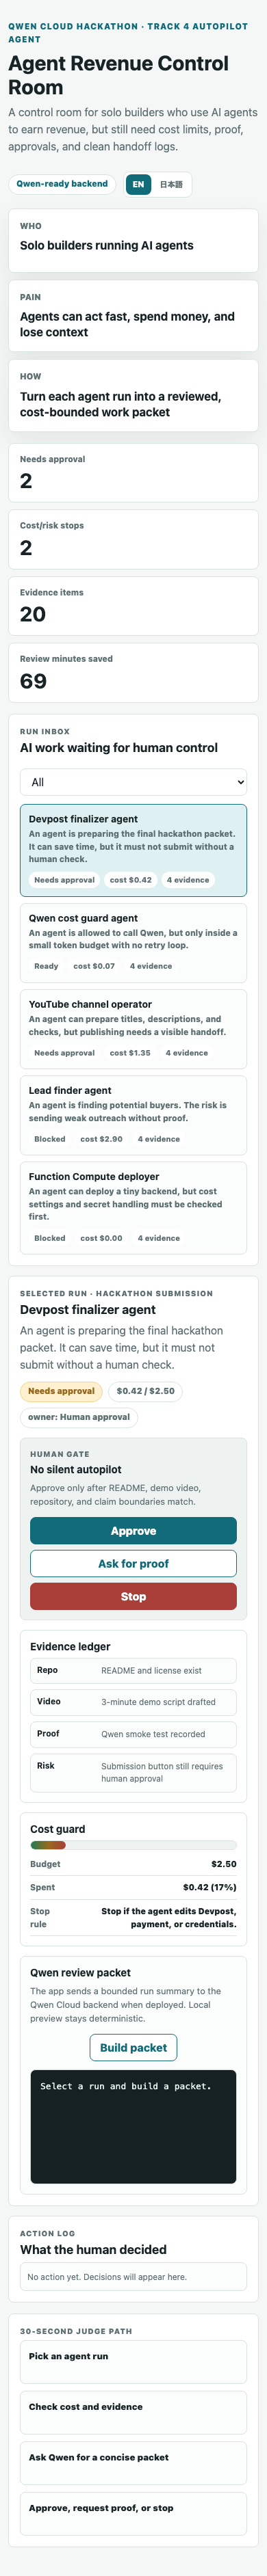
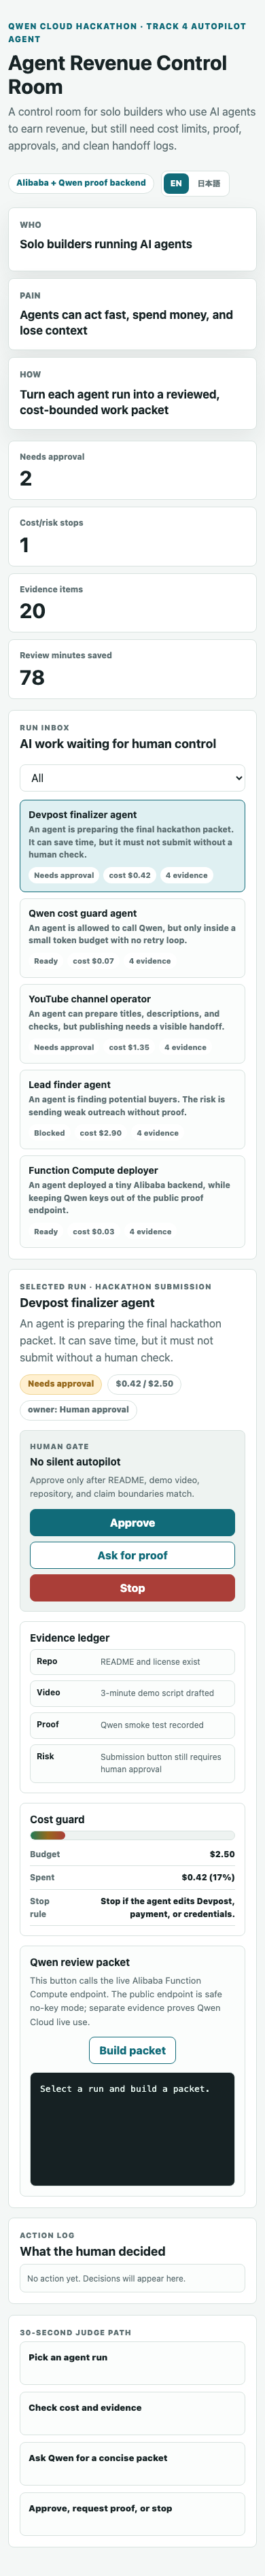
Add live backend UI path and demo assets

diff --git a/script.js b/script.js
@@ -1,3 +1,5 @@
+const BACKEND_URL = 'https://agent-rrol-room-qaoqbueeak.ap-northeast-1.fcapp.run';
+
 const runs = [
   {
     id: 'devpost-finalizer',
@@ -131,27 +133,27 @@ const runs = [
       ja: 'Function Compute配置AI'
     },
     plain: {
-      en: 'An agent can deploy a tiny backend, but cost settings and secret handling must be checked first.',
-      ja: 'AIは小さなバックエンドを配置できますが、費用設定と秘密情報の扱いを先に確認します。'
+      en: 'An agent deployed a tiny Alibaba backend, while keeping Qwen keys out of the public proof endpoint.',
+      ja: 'AIが小さなAlibabaバックエンドを配置し、Qwenキーは公開証拠用エンドポイントの外に保ちました。'
     },
-    status: 'blocked',
-    owner: 'Cost stop',
+    status: 'ready',
+    owner: 'Deployment proof',
     budget: 0.8,
-    spent: 0.0,
-    minutesSaved: 5,
+    spent: 0.03,
+    minutesSaved: 14,
     stopRule: {
-      en: 'Stop on provisioned capacity, paid storage, custom domain, or raw key in terminal.',
-      ja: '常時課金、ストレージ、独自ドメイン、生キーの端末貼り付けは禁止。'
+      en: 'Stop before adding Qwen keys, paid storage, custom domains, or provisioned capacity.',
+      ja: 'Qwenキー、ストレージ、独自ドメイン、常時課金を追加する前に停止。'
     },
     decision: {
-      en: 'Deploy only after flexible/free-tier-safe settings are visible.',
-      ja: '無料枠に収まる柔軟設定が見えてから配置します。'
+      en: 'Public Function Compute endpoint is live in safe no-key mode. Qwen key stays outside the public proof endpoint.',
+      ja: '公開Function Computeはキーなし安全モードで稼働中です。Qwenキーは公開証拠用エンドポイントには置きません。'
     },
     evidence: [
-      ['Console', 'Function Compute console opens'],
-      ['Role', 'Service-linked role approved'],
-      ['Runtime', 'Cloud Shell VM starts for one hour'],
-      ['Gap', 'Durable backend not deployed yet']
+      ['Endpoint', 'Function Compute health returned HTTP 200'],
+      ['Runtime', 'Python 3.10 custom runtime deployed'],
+      ['Secret', 'No Qwen key configured on public endpoint'],
+      ['Mode', 'Public endpoint returns safe offline packet']
     ]
   }
 ];
@@ -161,7 +163,7 @@ const copy = {
     locator: 'Qwen Cloud Hackathon · Track 4 Autopilot Agent',
     title: 'Agent Revenue Control Room',
     tagline: 'A control room for solo builders who use AI agents to earn revenue, but still need cost limits, proof, approvals, and clean handoff logs.',
-    qwenBadge: 'Qwen-ready backend',
+    qwenBadge: 'Alibaba + Qwen proof backend',
     whoLabel: 'Who',
     whoText: 'Solo builders running AI agents',
     painLabel: 'Pain',
@@ -189,7 +191,7 @@ const copy = {
     spentLabel: 'Spent',
     riskLabel: 'Stop rule',
     qwenTitle: 'Qwen review packet',
-    qwenNote: 'The app sends a bounded run summary to the Qwen Cloud backend when deployed. Local preview stays deterministic.',
+    qwenNote: 'This button calls the live Alibaba Function Compute endpoint. The public endpoint is safe no-key mode; separate evidence proves Qwen Cloud live use.',
     draftBtn: 'Build packet',
     logKicker: 'Action log',
     logTitle: 'What the human decided',
@@ -205,7 +207,8 @@ const copy = {
     stopped: 'Stopped',
     offlinePacket: 'Offline preview packet',
     backendPacket: 'Qwen Cloud packet',
-    qwenError: 'Backend unavailable, showing local packet instead.',
+    alibabaPacket: 'Alibaba Function Compute packet',
+    qwenError: 'Live backend unavailable, showing local packet instead.',
     needsApproval: 'Needs approval',
     ready: 'Ready',
     blocked: 'Blocked',
@@ -217,7 +220,7 @@ const copy = {
     locator: 'Qwen Cloud ハッカソン · Track 4 Autopilot Agent',
     title: 'AI収益管制室',
     tagline: 'AIエージェントで稼ぐ人のために、費用、証拠、承認、引き継ぎを一つにまとめる管制室です。',
-    qwenBadge: 'Qwen対応バックエンド',
+    qwenBadge: 'Alibaba + Qwen 証拠バックエンド',
     whoLabel: '誰のため',
     whoText: 'AIエージェントで仕事を進める一人運営者',
     painLabel: '困りごと',
@@ -245,7 +248,7 @@ const copy = {
     spentLabel: '使用済み',
     riskLabel: '停止ルール',
     qwenTitle: 'Qwen確認パック',
-    qwenNote: '配置後は、制限つきの要約だけをQwen Cloudバックエンドへ送ります。ローカルでは決まった文面で確認できます。',
+    qwenNote: 'このボタンは実際のAlibaba Function Computeを呼びます。公開側はキーなし安全モードで、Qwen実呼び出しは別の証拠に分けています。',
     draftBtn: 'パック作成',
     logKicker: '判断ログ',
     logTitle: '人間が決めたこと',
@@ -261,7 +264,8 @@ const copy = {
     stopped: '停止しました',
     offlinePacket: 'ローカル確認パック',
     backendPacket: 'Qwen Cloud確認パック',
-    qwenError: 'バックエンド未接続のため、ローカル確認パックを表示します。',
+    alibabaPacket: 'Alibaba Function Compute確認パック',
+    qwenError: '公開バックエンド未接続のため、ローカル確認パックを表示します。',
     needsApproval: '承認待ち',
     ready: '準備完了',
     blocked: '停止中',
@@ -289,6 +293,7 @@ const jaTerms = {
   'Publisher review': '公開前確認',
   'Proof required': '証拠が必要',
   'Cost stop': '費用で停止',
+  'Deployment proof': '配置証拠',
   'Repo': 'リポジトリ',
   'README and license exist': 'READMEとライセンスがあります',
   'Video': '動画',
@@ -326,7 +331,13 @@ const jaTerms = {
   'Service-linked role approved': 'サービス連携ロールを承認済みです',
   'Runtime': '実行環境',
   'Cloud Shell VM starts for one hour': 'Cloud Shell VMは1時間起動します',
-  'Durable backend not deployed yet': '継続利用できるバックエンドは未配置です'
+  'Durable backend not deployed yet': '継続利用できるバックエンドは未配置です',
+  'Endpoint': '公開URL',
+  'Function Compute health returned HTTP 200': 'Function ComputeのヘルスチェックがHTTP 200を返しました',
+  'Python 3.10 custom runtime deployed': 'Python 3.10カスタム実行環境を配置済みです',
+  'No Qwen key configured on public endpoint': '公開エンドポイントにQwenキーは設定していません',
+  'Mode': 'モード',
+  'Public endpoint returns safe offline packet': '公開エンドポイントは安全なキーなしパックを返します'
 };
 
 function t(key) {
@@ -474,14 +485,15 @@ async function buildPacket() {
   const run = currentRun();
   $('#qwenOutput').textContent = lang === 'ja' ? '作成中です...' : 'Building...';
   try {
-    const response = await fetch('/api/qwen-brief', {
+    const response = await fetch(`${BACKEND_URL}/api/qwen-brief`, {
       method: 'POST',
       headers: { 'content-type': 'application/json' },
       body: JSON.stringify({ language: lang, run })
     });
     if (!response.ok) throw new Error(`HTTP ${response.status}`);
     const data = await response.json();
-    $('#qwenOutput').textContent = `${t('backendPacket')}\n\n${data.packet}`;
+    const packetLabel = data.mode === 'qwen' ? t('backendPacket') : t('alibabaPacket');
+    $('#qwenOutput').textContent = `${packetLabel}\n${BACKEND_URL}\n\n${data.packet}`;
   } catch {
     $('#qwenOutput').textContent = `${t('qwenError')}\n\n${localPacket(run)}`;
   }

diff --git a/docs/demo-script.md b/docs/demo-script.md
@@ -1,0 +1,48 @@
+# Demo Script
+
+Target length: under 3 minutes.
+
+## Opening
+
+AI agents are becoming useful coworkers.
+They can write, research, deploy, and publish.
+But when an agent starts doing real revenue work, a solo builder needs one thing:
+a control room.
+
+Agent Revenue Control Room is that control room.
+
+## Who, Problem, Solution
+
+This is for solo builders and small teams using AI agents to earn revenue.
+
+The problem is simple:
+agents move fast, but cost, evidence, approvals, and handoffs get messy.
+
+This app turns each agent run into a clear review packet.
+The human can see what happened, what it may cost, what proof exists, and whether to approve, ask for proof, or stop.
+
+## Product Walkthrough
+
+First, pick an agent run from the inbox.
+
+The center panel explains the work in plain language.
+The evidence ledger shows what proof exists.
+The cost guard shows the budget, spend, and stop rule.
+
+Now click Build packet.
+The app calls a live Alibaba Function Compute endpoint.
+For public safety, this endpoint has no Qwen key configured.
+It proves the backend deployment without exposing secrets.
+
+The Qwen Cloud live model call is proven separately in the evidence file.
+That keeps the demo honest: real Qwen proof, real Alibaba deployment proof, no leaked key.
+
+Finally, the human chooses approve, ask for proof, or stop.
+That decision goes into the action log so another human or AI can continue the work.
+
+## Closing
+
+The point is not to let agents run without control.
+The point is to let humans work faster while keeping cost, proof, and responsibility visible.
+
+If AI agents are the new workers, this is the manager console for revenue work.

diff --git a/docs/architecture.md b/docs/architecture.md
@@ -35,6 +35,12 @@ AI agent run
   -> Action log
 ```
 
+Architecture diagram:
+
+```text
+media/architecture.svg
+```
+
 ## Qwen Use
 
 Qwen is used only for a bounded review packet:
@@ -48,12 +54,13 @@ Qwen does not approve the work by itself.
 
 ## Alibaba Cloud Use
 
-The backend is designed for Alibaba Function Compute.
-The minimum deployment proof is:
+The backend is deployed on Alibaba Function Compute.
+The current proof is:
 
 - public `/healthz` route
 - public `/api/qwen-brief` route
-- screenshot or video showing the Function Compute endpoint
+- public endpoint: `https://agent-rrol-room-qaoqbueeak.ap-northeast-1.fcapp.run/healthz`
+- evidence file: `evidence/2026-05-28T021155Z_alibaba-function-compute-live-health.json`
 - source code in this repository
 
 ## Claim Boundary
@@ -61,9 +68,10 @@ The minimum deployment proof is:
 Current local app:
 
 - static UI works
-- local deterministic Qwen packet preview works
+- the Qwen packet button calls the live Alibaba Function Compute endpoint
 - backend code exists
 - offline backend smoke works
 - one local live backend smoke reached Qwen Cloud
+- the public Alibaba endpoint is deployed without a Qwen API key and returns safe offline packets
 
-Do not claim final Alibaba Cloud deployment until a Function Compute endpoint is live and verified.
+Do not claim the public Alibaba endpoint calls Qwen until a provider-secret path is configured and verified.

diff --git a/docs/submission-plan.md b/docs/submission-plan.md
@@ -24,17 +24,21 @@ Agent Revenue Control Room is the missing control layer.
 ## Demo Flow
 
 1. Open the dashboard.
-2. Pick a risky AI work item.
+2. Pick the Alibaba Function Compute deployer item.
 3. Show the evidence ledger and cost guard.
-4. Generate a Qwen review packet.
+4. Generate a review packet through the live Alibaba Function Compute endpoint.
 5. Choose approve, request proof, or stop.
 6. Show the action log.
 
+## Assets Ready
+
+- public repository URL
+- live Function Compute deployment proof
+- verified `dist/alibaba-fc-python-backend.zip` on Function Compute
+- architecture diagram image: `media/architecture.svg`
+- captioned local demo video: `media/demo-walkthrough.mp4`
+
 ## Submission Assets Still Needed
 
-- live Function Compute deployment proof
-- verify `dist/alibaba-fc-python-backend.zip` on Function Compute with minimum instance count set to `0`
-- public repository URL
-- architecture diagram image
-- under-3-minute demo video
+- public hosted demo video URL
 - final Devpost write-up

diff --git a/README.md b/README.md
@@ -44,6 +44,8 @@ Japanese / English UI                 █████████░ 9/10
 Qwen backend code                     █████████░ 9/10
 Local verification                    ██████████ 10/10
 Alibaba Function Compute deployment   ████████░░ 8/10
+Architecture diagram                  ██████████ 10/10
+Captioned demo video asset            ████████░░ 8/10
 Final Devpost submission              ░░░░░░░░░░ 0/10
 ```
 
@@ -53,6 +55,7 @@ Current claim boundary:
 - the backend is deployed on Alibaba Cloud Function Compute
 - the public Alibaba endpoint is reachable and intentionally has no Qwen API key configured
 - the backend code has completed one live Qwen Cloud smoke test from the local machine
+- architecture and captioned demo video assets exist in `media/`
 - final Devpost submission is not yet claimed
 
 Live evidence:
@@ -63,6 +66,10 @@ evidence/2026-05-28T021155Z_alibaba-function-compute-live-health.json
 ```
 
 ## Screenshots
+
+Architecture:
+
+![Agent Revenue Control Room architecture](media/architecture.svg)
 
 English desktop:
 
@@ -78,8 +85,12 @@ Mobile:
 
 Demo video:
 
+[Captioned demo video](media/demo-walkthrough.mp4)
+
+Demo script:
+
 ```text
-Pending. Record after the final demo script is locked.
+docs/demo-script.md
 ```
 
 ## What You Can Try
@@ -190,6 +201,7 @@ AIは速く動けます。
 
 - [Architecture](docs/architecture.md)
 - [Cost guard](docs/cost-guard.md)
+- [Demo script](docs/demo-script.md)
 - [Submission plan](docs/submission-plan.md)
 
 ## License

diff --git a/docs/cost-guard.md b/docs/cost-guard.md
@@ -41,11 +41,11 @@ Allowed:
 
 ```text
 Qwen Cloud API route was live-tested.
-The backend is designed for Alibaba Function Compute.
+The backend is deployed on Alibaba Function Compute as a safe no-key proof endpoint.
 ```
 
-Not allowed until verified:
+Not allowed until provider-secret verification:
 
 ```text
-The final app is deployed on Alibaba Cloud.
+The public Alibaba endpoint calls Qwen Cloud.
 ```